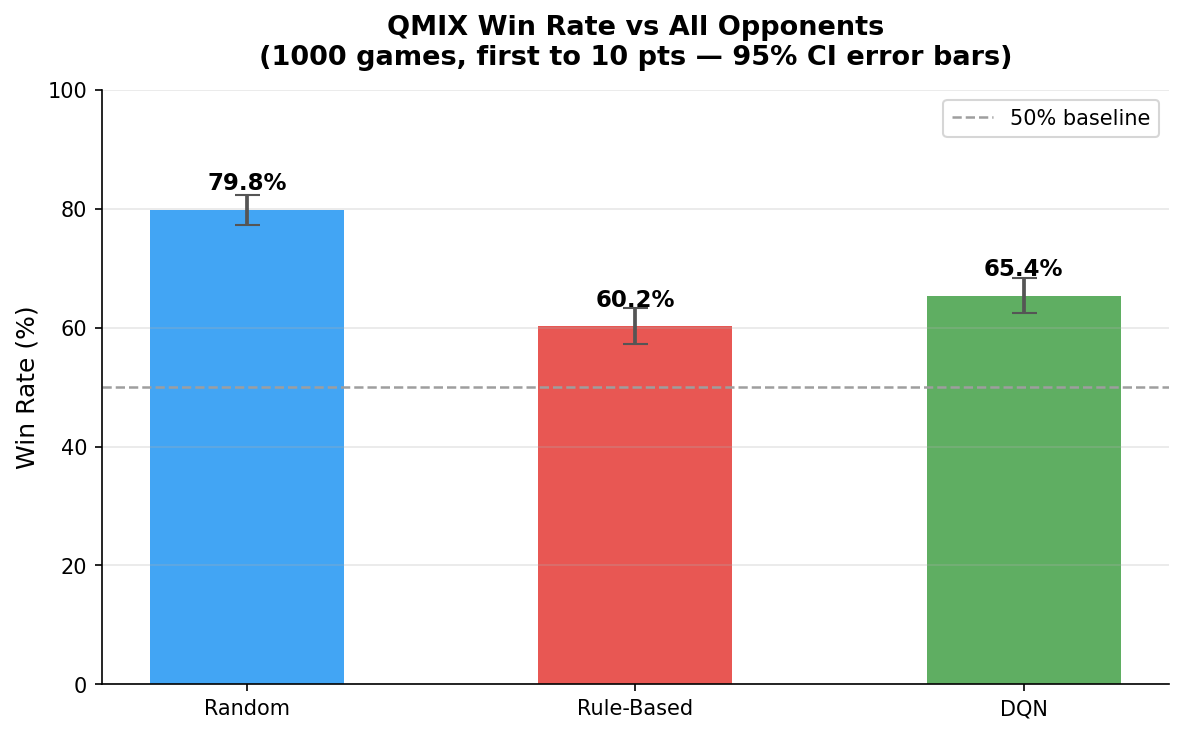
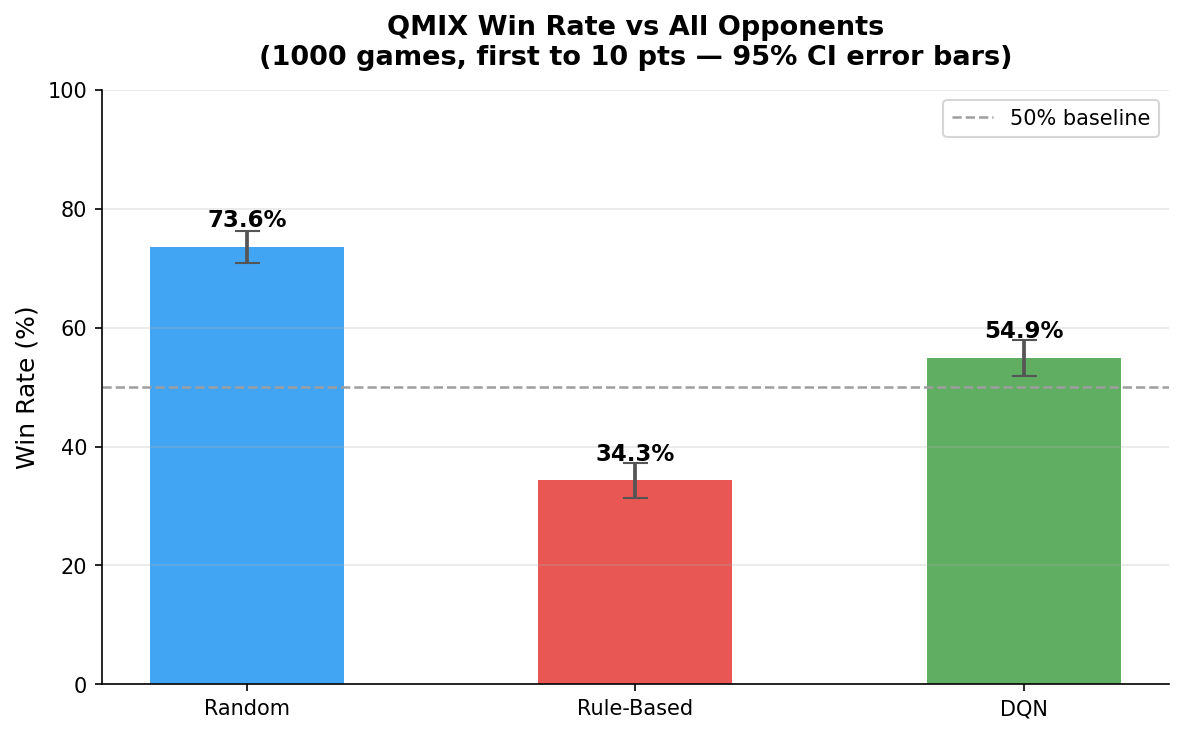
fixed bugs with euchre points, dealer rotation

Changed region(s): [[0.4375, 0.3896, 0.625, 0.6894], [0.7812, 0.3597, 0.9688, 0.5095], [0.125, 0.2398, 0.3125, 0.3597]]

diff --git a/euchre/rlcard/games/euchre/game.py b/euchre/rlcard/games/euchre/game.py
@@ -15,6 +15,7 @@ class EuchreGame(object):
         self.allow_step_back = allow_step_back
         self.num_players = 4
         self.payoffs = [0 for _ in range(self.num_players)]
+        self.dealer_player_id = None
 
     def init_game(self):
         self.payoffs = [0 for _ in range(self.num_players)]
@@ -22,7 +23,10 @@ class EuchreGame(object):
         self.judge = Judger()
 
         self.dealer = Dealer()
-        self.dealer_player_id = random.randrange(0, self.num_players)
+        if self.dealer_player_id is None:
+            self.dealer_player_id = random.randrange(0, self.num_players)
+        else:
+            self.dealer_player_id = (self.dealer_player_id + 1) % self.num_players
         self.players = [Player(i) for i in range(self.num_players)]
 
         for player in self.players:
@@ -142,6 +146,7 @@ class EuchreGame(object):
 
     def _perform_call(self, suit):
         self.trump = suit
+        self.calling_player = self.current_player
         self.current_player = self._increment_player(self.dealer_player_id)
 
     def _perform_pass(self):

diff --git a/euchre/rlcard/games/euchre/judger.py b/euchre/rlcard/games/euchre/judger.py
@@ -51,15 +51,16 @@ class EuchreJudger(object):
         return [k for k, v in center_cards.items() if winning_card == v][0]
 
     def judge_hand(self, game):
-        team_1_score = game.score[0] + game.score[2]
-        if team_1_score == 5:
-            return [0,2], 2
-        elif team_1_score >= 3:
-            return [0,2], 1
-        elif team_1_score == 0:
-            return [1,3], 2
-        else:
-            return [1,3], 1
+        caller = game.calling_player
+        maker_team    = [caller, (caller + 2) % 4]
+        defender_team = [(caller + 1) % 4, (caller + 3) % 4]
+        maker_tricks  = game.score[maker_team[0]] + game.score[maker_team[1]]
+        if maker_tricks == 5:      # march
+            return maker_team, 2
+        elif maker_tricks >= 3:    # made it
+            return maker_team, 1
+        else:                      # euchred
+            return defender_team, 2
 
     def _get_player_order(self, leader):
         return [(i+leader)%4 for i in range(4)]

diff --git a/euchre/dqn_agent/train_dqn.py b/euchre/dqn_agent/train_dqn.py
@@ -42,7 +42,7 @@ EPSILON_STEPS = 15_000
 
 CKPT_PATH = os.path.join(os.path.dirname(__file__), 'dqn_euchre_shared.pt')
 
-RESUME = False  # set True to continue training from CKPT_PATH
+RESUME = True  # set True to continue training from CKPT_PATH
 
 
 # ── Helpers ────────────────────────────────────────────────────────────────────
